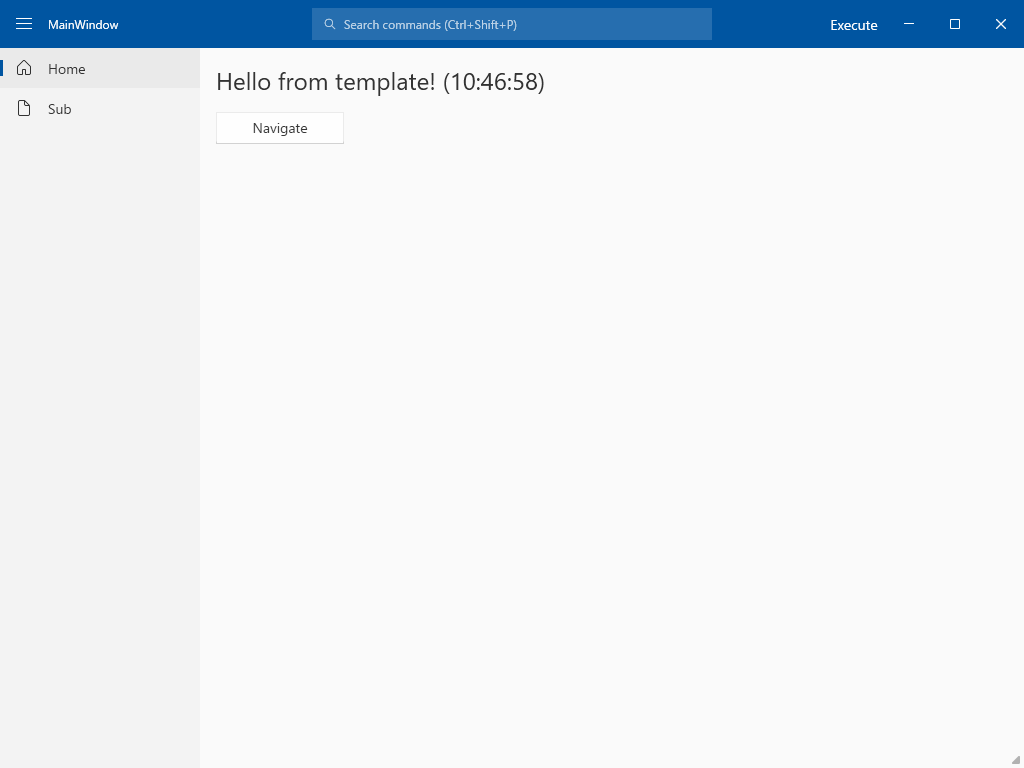
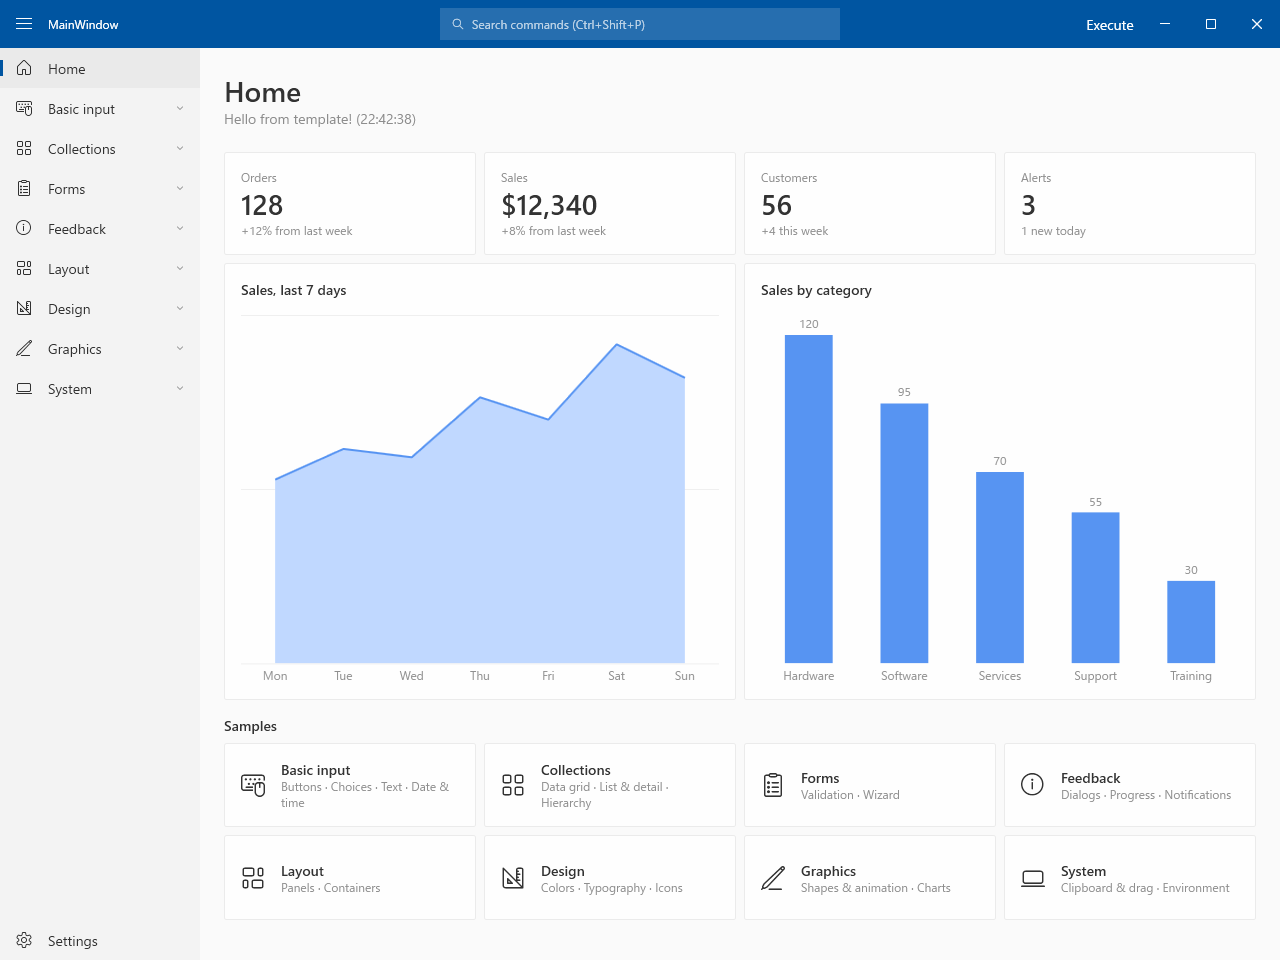
Update

diff --git a/README.md b/README.md
@@ -4,16 +4,45 @@
 
 <p>
 <img width="49%" src="Document/Images/Home.png" />
-<img width="49%" src="Document/Images/Sub.png" />
-
 <img width="49%" src="Document/Images/Palette.png" />
-<img width="49%" src="Document/Images/Input.png" />
+
+<img width="49%" src="Document/Images/DateTime.png" />
+<img width="49%" src="Document/Images/DataGrid.png" />
+
+<img width="49%" src="Document/Images/Hierarchy.png" />
+<img width="49%" src="Document/Images/Validation.png" />
+
+<img width="49%" src="Document/Images/Notifications.png" />
+<img width="49%" src="Document/Images/Containers.png" />
+
+<img width="49%" src="Document/Images/Icons.png" />
+<img width="49%" src="Document/Images/Charts.png" />
+
+<img width="49%" src="Document/Images/ShapesAnimation.png" />
+<img width="49%" src="Document/Images/ClipboardDrag.png" />
 </p>
 
 ## ✅ Implement
 
 | Category | Feature |
 | --- | --- |
-| Window | Custom title bar / Snap layouts / Fluent theme / Window placement |
-| Shell | Side bar / Command palette / Recent commands / Busy indicator |
+| Window | Custom title bar / Snap layouts / Fluent theme (Light / Dark) / Window placement |
+| Shell | Side bar (groups) / Command palette / Recent commands / Busy indicator / Notifications |
 | Basic | Navigation / Dialog / Setting / Logging / DI (source generator) / Leak detection |
+
+## 🧩 Sample
+
+| Group | Pages |
+| --- | --- |
+| Basic input | Buttons / Choices / Text / Date & time |
+| Collections | Data grid / List & detail / Hierarchy |
+| Forms | Validation / Wizard |
+| Feedback | Dialogs / Progress / Notifications |
+| Layout | Panels / Containers |
+| Design | Colors / Typography / Icons |
+| Graphics | Shapes & animation / Charts |
+| System | Clipboard & drag / Environment |
+
+## 📝 Credits
+
+Icon names and codes in Views/Design/Icons.json are from [Segoe Fluent Icons font](https://learn.microsoft.com/windows/apps/design/iconography/segoe-fluent-icons-font) by Microsoft, licensed under [CC BY 4.0](https://creativecommons.org/licenses/by/4.0/), and converted to JSON.
